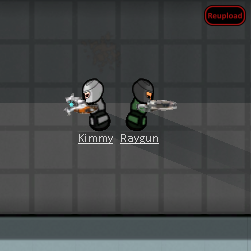
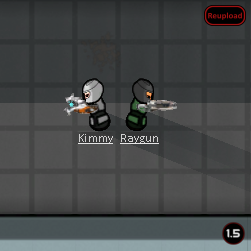
Mod updated for 1.5 and passed autotests

Changed region(s): [[0.8645, 0.8645, 0.9761, 0.9761]]

diff --git a/Source/WeaponsOfElysion/LightningBolt.cs b/Source/WeaponsOfElysion/LightningBolt.cs
@@ -4,19 +4,11 @@ using Verse;
 namespace WeaponsOfElysion;
 
 [StaticConstructorOnStartup]
-public class LightningBolt : Thing
+public class LightningBolt(IntVec3 hitThing, Vector3 origin) : Thing
 {
     private static readonly Material LightningMat = MatLoader.LoadMat("Weather/LightningBolt");
-    private readonly IntVec3 hitThing;
-    private readonly Vector3 origin;
     private Mesh boltMesh;
     private Quaternion direction;
-
-    public LightningBolt(IntVec3 hitThing, Vector3 origin)
-    {
-        this.hitThing = hitThing;
-        this.origin = origin;
-    }
 
     public void CreateLightningBolt()
     {

diff --git a/Source/WeaponsOfElysion/ModLightningMeshMaker.cs b/Source/WeaponsOfElysion/ModLightningMeshMaker.cs
@@ -37,7 +37,7 @@ public static class ModLightningBoltMeshMaker
     {
         var num = (int)Math.Ceiling((Vector2.zero - lightningTop).magnitude / 0.25f);
         var b = lightningTop / num;
-        verts2D = new List<Vector2>();
+        verts2D = [];
         var vector = Vector2.zero;
         for (var i = 0; i < num; i++)
         {

diff --git a/README.md b/README.md
@@ -38,11 +38,13 @@ You can come here for anything, asking questions, troubleshooting, just random t
 
 -  See if the the error persists if you just have this mod and its requirements active.
 -  If not, try adding your other mods until it happens again.
--  Post your error-log using https://steamcommunity.com/workshop/filedetails/?id=818773962]HugsLib and command Ctrl+F12
+-  Post your error-log using https://steamcommunity.com/workshop/filedetails/?id=818773962]HugsLib or the standalone https://steamcommunity.com/sharedfiles/filedetails/?id=2873415404]Uploader and command Ctrl+F12
 -  For best support, please use the Discord-channel for error-reporting.
 -  Do not report errors by making a discussion-thread, I get no notification of that.
 -  If you have the solution for a problem, please post it to the GitHub repository.
+-  Use https://github.com/RimSort/RimSort/releases/latest]RimSort to sort your mods
 
 
 
-https://steamcommunity.com/sharedfiles/filedetails/changelog/2793869556]Last updated 2023-01-08
+https://steamcommunity.com/sharedfiles/filedetails/changelog/2793869556]![Image](https://img.shields.io/github/v/release/emipa606/WeaponsOfElysion?label=latest%20version&style=plastic&color=9f1111&labelColor=black)
+
